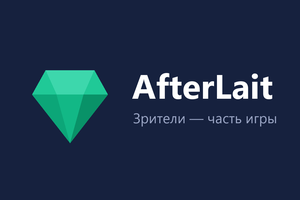
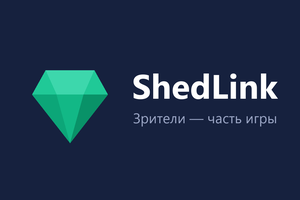
chore(submission): rename the extension AfterLait -> ShedLink
Owner's call: the Twitch extension is named ShedLink (the "AfterLait" name was an
older project label). Updates the user-facing submission materials (privacy.html,
terms.html, REVIEW_SUBMISSION.md, discovery image) and the internal docs
(OVERVIEW.md, CLAUDE.md, deploy.ps1 comment). The repo/platform stays "shedstream";
git remote/branch names (AfterLait.git / afterlait-main) are untouched.

Changed region(s): [[0.42, 0.36, 0.93, 0.51]]

diff --git a/Расширение/frontend/terms.html b/Расширение/frontend/terms.html
@@ -3,7 +3,7 @@
 <head>
 <meta charset="utf-8" />
 <meta name="viewport" content="width=device-width, initial-scale=1" />
-<title>AfterLait — Terms of Service</title>
+<title>ShedLink — Terms of Service</title>
 <style>
   :root { color-scheme: light dark; }
   body { max-width: 760px; margin: 0 auto; padding: 32px 20px 64px;
@@ -19,10 +19,10 @@
 </style>
 </head>
 <body>
-<h1>AfterLait — Terms of Service</h1>
+<h1>ShedLink — Terms of Service</h1>
 <p class="updated">Last updated: 26 June 2026</p>
 
-<p>These Terms govern your use of AfterLait (“the Extension”), a Twitch Extension that lets
+<p>These Terms govern your use of ShedLink (“the Extension”), a Twitch Extension that lets
 viewers take part in a streamer’s game using an in-Extension virtual currency. By using the
 Extension you accept these Terms. If you do not agree, do not use the Extension.</p>
 
@@ -64,7 +64,7 @@ you accept the updated Terms.</p>
 <h2>8. Contact</h2>
 <p><a href="mailto:nasulskii6@gmail.com">nasulskii6@gmail.com</a></p>
 
-<p class="note">AfterLait is an independent Twitch Extension. It is not created, endorsed by,
+<p class="note">ShedLink is an independent Twitch Extension. It is not created, endorsed by,
 or affiliated with Twitch Interactive, Inc. Your use of Twitch remains governed by Twitch’s
 own Terms of Service. See also our <a href="/privacy.html">Privacy Policy</a>.</p>
 </body>

diff --git a/Расширение/frontend/privacy.html b/Расширение/frontend/privacy.html
@@ -3,7 +3,7 @@
 <head>
 <meta charset="utf-8" />
 <meta name="viewport" content="width=device-width, initial-scale=1" />
-<title>AfterLait — Privacy Policy</title>
+<title>ShedLink — Privacy Policy</title>
 <style>
   :root { color-scheme: light dark; }
   body { max-width: 760px; margin: 0 auto; padding: 32px 20px 64px;
@@ -20,10 +20,10 @@
 </style>
 </head>
 <body>
-<h1>AfterLait — Privacy Policy</h1>
+<h1>ShedLink — Privacy Policy</h1>
 <p class="updated">Last updated: 26 June 2026</p>
 
-<p>AfterLait (“the Extension”) is a Twitch Extension that lets viewers take part in a
+<p>ShedLink (“the Extension”) is a Twitch Extension that lets viewers take part in a
 streamer’s game using an in-Extension virtual currency. This policy explains what data the
 Extension processes and why. By using the Extension you agree to this policy.</p>
 
@@ -93,7 +93,7 @@ jurisdiction).</p>
 <h2>11. Contact</h2>
 <p>Questions or data requests: <a href="mailto:nasulskii6@gmail.com">nasulskii6@gmail.com</a>.</p>
 
-<p class="note">AfterLait is an independent Twitch Extension. It is not created, endorsed by,
+<p class="note">ShedLink is an independent Twitch Extension. It is not created, endorsed by,
 or affiliated with Twitch Interactive, Inc. Your use of Twitch is governed by Twitch’s own
 Terms of Service and Privacy Notice.</p>
 </body>

diff --git a/Расширение/docs/REVIEW_SUBMISSION.md b/Расширение/docs/REVIEW_SUBMISSION.md
@@ -1,6 +1,6 @@
-# AfterLait — Twitch Extension Review Notes
+# ShedLink — Twitch Extension Review Notes
 
-**Extension name:** AfterLait — interactive viewer engagement platform
+**Extension name:** ShedLink — interactive viewer engagement platform
 **Type:** Video-overlay + mobile + config view
 **Test/review channel:** https://twitch.tv/shedoy23
 **Contact:** nasulskii6@gmail.com
@@ -8,14 +8,14 @@
 **Terms of Service:** https://shedoy23.ru/terms.html
 **Last updated:** 2026-06-27
 
-This document is the reviewer walkthrough: what AfterLait does, how to test it, where
+This document is the reviewer walkthrough: what ShedLink does, how to test it, where
 the backend lives, and a compliance tour with links to the exact code.
 
 ---
 
-## 1. What AfterLait is
+## 1. What ShedLink is
 
-AfterLait turns viewers into participants in the streamer's game using an **in-Extension
+ShedLink turns viewers into participants in the streamer's game using an **in-Extension
 virtual currency** ("crustics" / 💎, earned by watching and chatting). It is **multi-tenant**
 (one backend serves many channels) and **game-agnostic** — games plug in as modules:
 

diff --git a/OVERVIEW.md b/OVERVIEW.md
@@ -1,4 +1,4 @@
-# AfterLait / shedstream — обзор проекта
+# ShedLink / shedstream — обзор проекта
 
 > Точка входа для понимания «что это и как устроено». Инструкции для работы —
 > в [CLAUDE.md](CLAUDE.md). Живой статус по областям — в `Расширение/docs/CONTEXT*.md`.
@@ -7,7 +7,7 @@
 
 ## Суть
 
-**AfterLait** (git-репо `shedstream`) — мультитенантное **Twitch-расширение**,
+**ShedLink** (git-репо `shedstream`) — мультитенантное **Twitch-расширение**,
 которое превращает зрителей стрима в **участников игры стримера**. Один backend
 обслуживает много каналов одновременно. Зритель через панель расширения тратит
 валюту, заработанную на стриме, чтобы влиять на игру: призывать бойцов в бой,

diff --git a/CLAUDE.md b/CLAUDE.md
@@ -4,7 +4,7 @@ This file provides guidance to Claude Code (claude.ai/code) when working with co
 
 ## What this is
 
-**shedstream / AfterLait** — a multi-tenant Twitch Extension platform that turns viewers into participants in the streamer's game. One backend deployment serves many streamer channels. Two game modules exist today: **Bannerlord** (C# mod + backend module) and **RimWorld** (RimLink). The architecture goal is game-agnostic: games plug in via the Module API (`docs/MODULE_API.md`).
+**shedstream / ShedLink** — a multi-tenant Twitch Extension platform that turns viewers into participants in the streamer's game. One backend deployment serves many streamer channels. Two game modules exist today: **Bannerlord** (C# mod + backend module) and **RimWorld** (RimLink). The architecture goal is game-agnostic: games plug in via the Module API (`docs/MODULE_API.md`).
 
 ## Repo layout (only the parts that need explaining)
 
